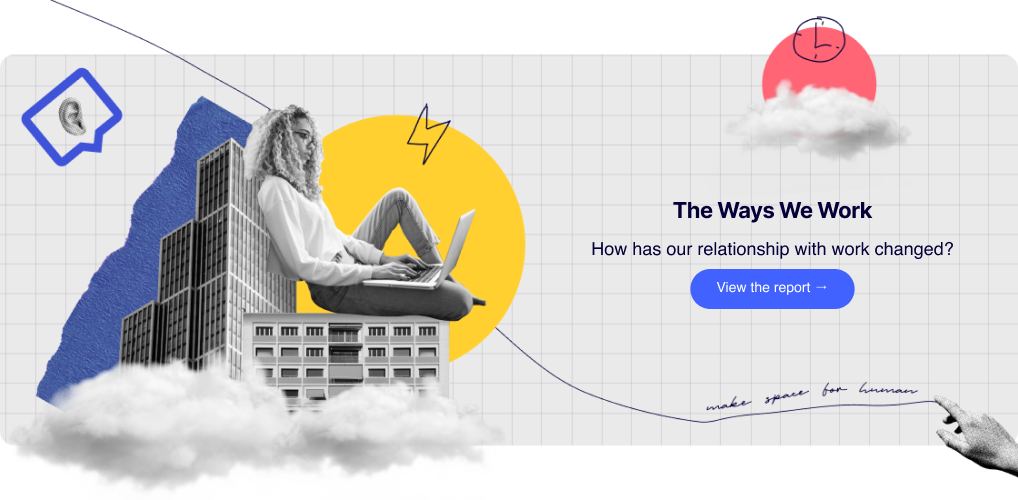
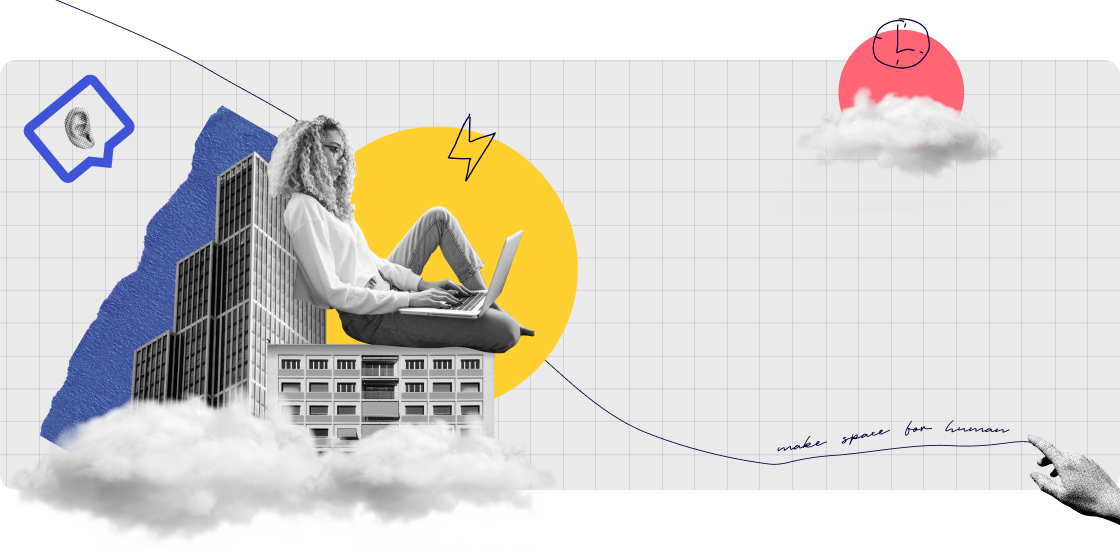
added section image

Changed region(s): [[0.6699, 0.54, 0.8527, 0.63], [0.6395, 0.39, 0.8527, 0.45], [0.5786, 0.48, 0.944, 0.51]]

diff --git a/src/Pages/Section/Section.jsx b/src/Pages/Section/Section.jsx
@@ -1,0 +1,21 @@
+import Button from "../../Components/Button/Button";
+import sectionImg from "../../assets/images/section.png"
+
+const Section = () => {
+    return (
+        <div className="max-w-[1020px] mx-auto relative">
+            <div>
+                <img src={sectionImg} alt="" />
+            </div>
+            <div className="text-center space-y-3 absolute top-[40%] left-[60%]">
+                <h2 className="text-[22px] font-bold">The Ways We Work</h2>
+                <p>How has our relationship with work changed?</p>
+                <div className="w-[170px] mx-auto">
+                    <Button heading="View the report"></Button>
+                </div>
+            </div>
+        </div>
+    );
+};
+
+export default Section;

diff --git a/src/Pages/Home/Home.jsx b/src/Pages/Home/Home.jsx
@@ -2,6 +2,7 @@ import Navbar from "../../Components/Navbar/Navbar";
 import Banner from "../Banner/Banner";
 import Collaborate from "../Collaborate/Collaborate";
 import Connect from "../Connect/Connect";
+import Section from "../Section/Section";
 import Together from "../Together/Together";
 import Trusted from "../Trusted/Trusted";
 
@@ -16,6 +17,7 @@ const Home = () => {
                 <Collaborate></Collaborate>
                 <Together></Together>
                 <Connect></Connect>
+                <Section></Section>
             </div>
             
         </div>
